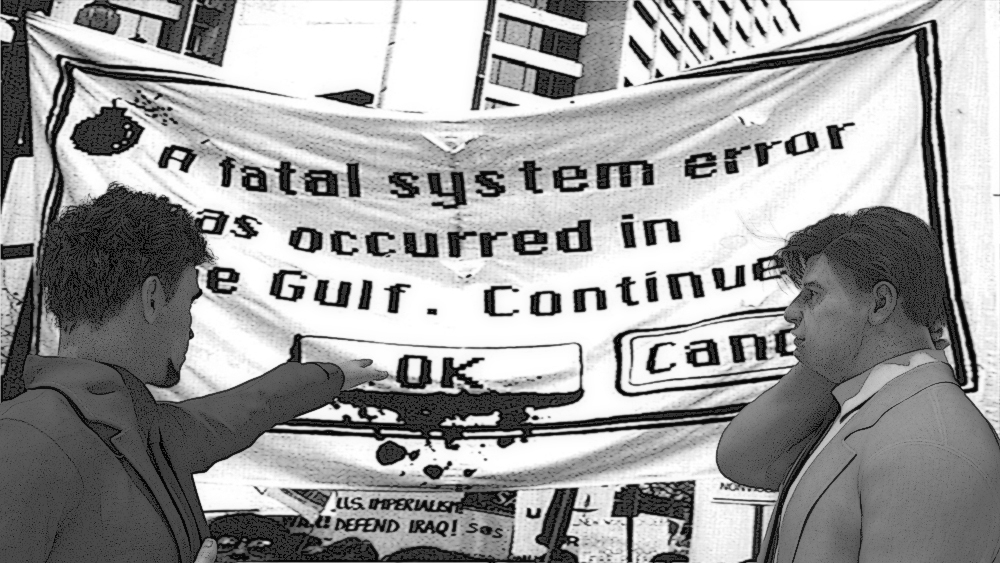
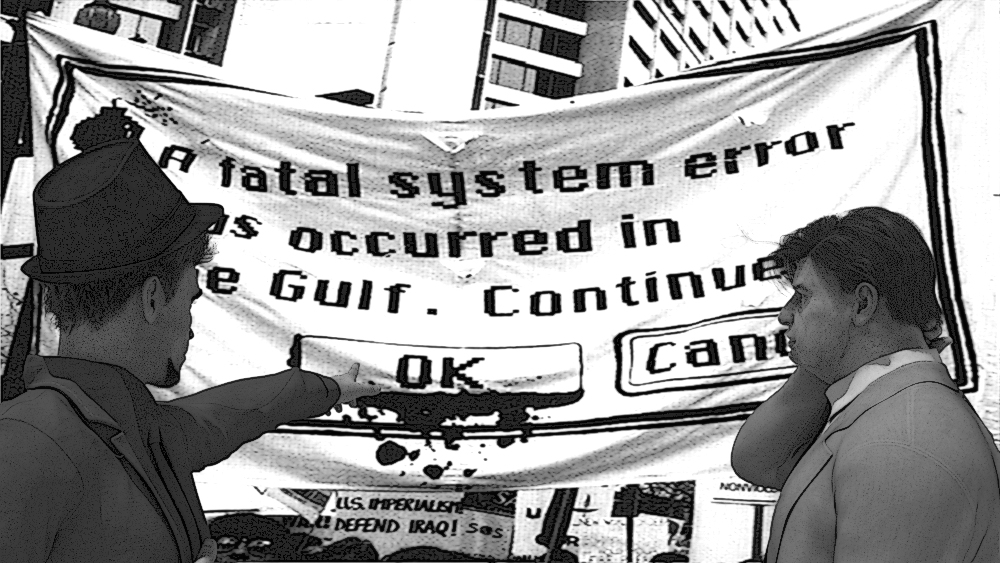
Updating "Capitol" stream graphics

diff --git a/Current Development/BUILD_Z02/Stringer.html b/Current Development/BUILD_Z02/Stringer.html
@@ -15,7 +15,7 @@
 
 <h1>Stringer</h1>
 
-<p>They're both up and somehow Harley manages to get into the whole outfit — coat, tie, <em>and</em>  the porkpie hat (useful in all kinds of contingencies) — before she's got her sweater untangled from the bedclothes.  More of those tricks of the trade.  He waits semi-patiently by the door, eyes on the <a class="textlink"  href="Feed.html">feed</a>.</p>
+<p>They're both up and somehow Harley manages to get into the whole outfit — coat, tie, <em>and</em>  the classic newshound hat (useful in all kinds of contingencies) — before she's got her sweater untangled from the bedclothes.  More of those tricks of the trade.  He waits semi-patiently by the door, eyes on the <a class="textlink"  href="Feed.html">feed</a>.</p>
 
 <p>Somehow they both know the plan without discussion.  Harley's officially on "stress leave" but quick study that she is, Veronica's learned that neither of those words mean anything when <a class="textlink"  href="Big_Story.html">History</a> dials your pager.  It's the birth of a stringer.</p>
 

diff --git a/Current Development/BUILD_Z02/Screwups.html b/Current Development/BUILD_Z02/Screwups.html
@@ -17,7 +17,7 @@
 
 <p>They found a Mexican place that didn't really do Mexican food and sat over bowls of gazpacho and French bread, washed down with some good local beer.  "So," Madden said after they toasted old times, "how did you screw up?"</p>
 
-<p>Harley peered at him from under the lowered brim of his porkpie hat.  "Jeez, Madden."</p>
+<p>Harley peered at him from under the lowered brim of his fedora.  "Jeez, Madden."</p>
 
 <p>But he knew.  They both knew.  Running into each other here and now, the thought was unavoidable.  Each of them must have screwed up.  Otherwise Harley would be someplace like Baghdad or Amman, hazardous to his health but good for his career, and Madden would be pounding some real turf, Chicago or Miami, not cooling his butt in this sleepy little town.</p>
 
